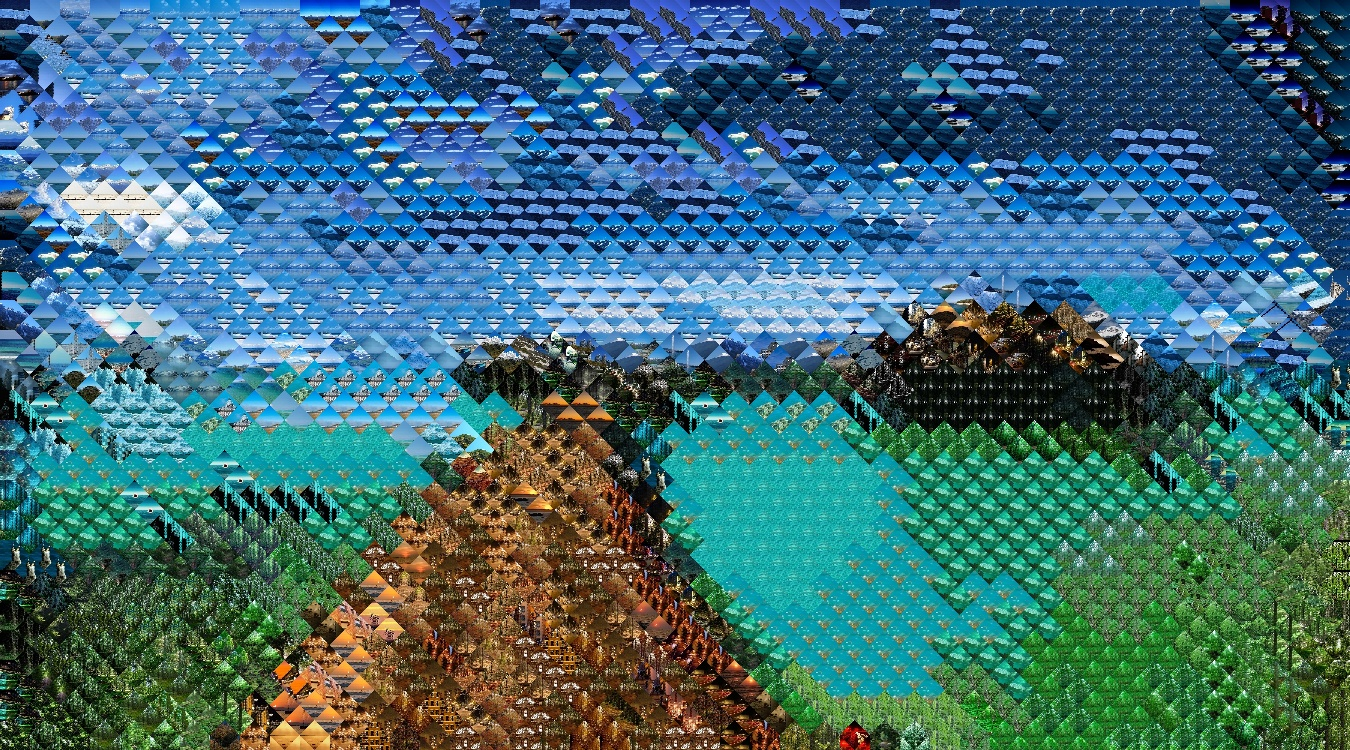
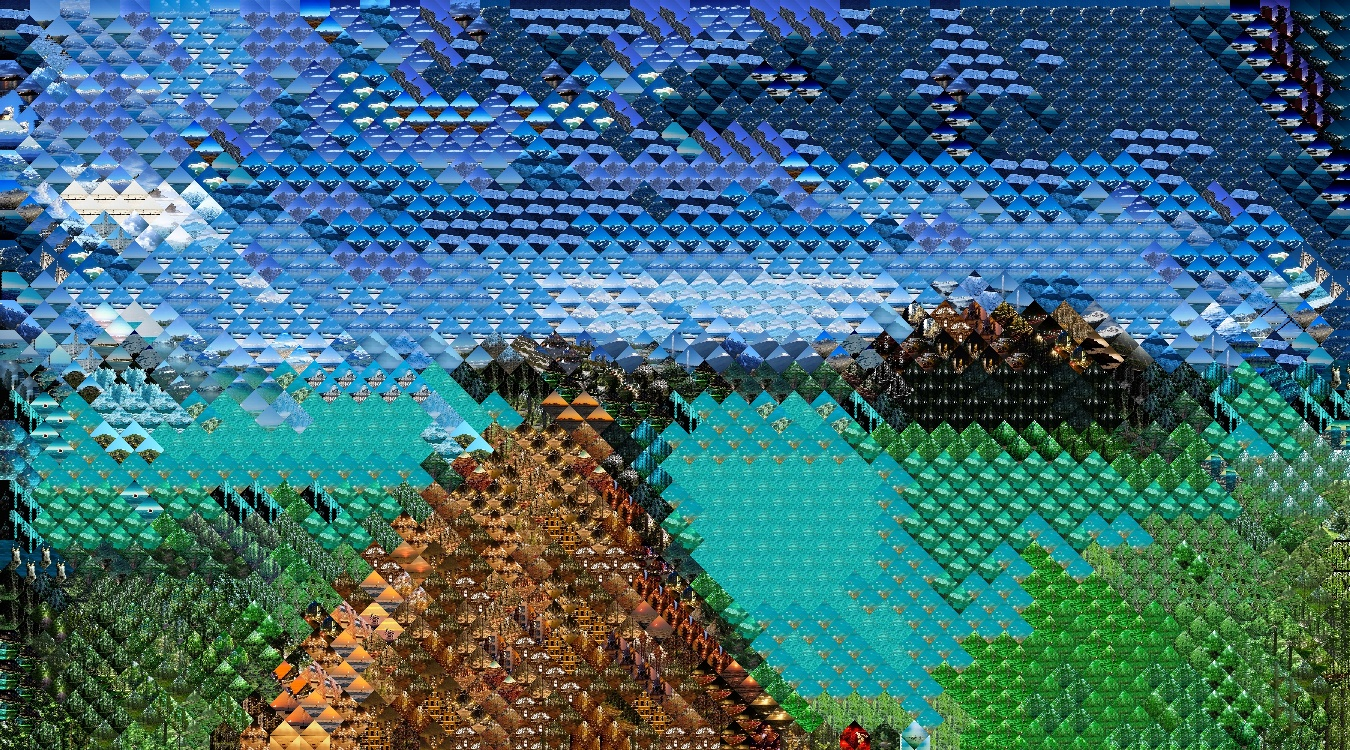
Made some changes on CommandLineInterface

diff --git a/Mosaic++/Mosaic++/CommandLineInterface.cpp b/Mosaic++/Mosaic++/CommandLineInterface.cpp
@@ -27,19 +27,128 @@ const std::unordered_map<std::string, CommandLineInterface::Parameter> CommandLi
 std::unordered_map<CommandLineInterface::PathType, std::string> CommandLineInterface::PATHS = {
 	{PathType::SOURCE,						    Data::Defaults::PARENT_PATH},
 
-	{PathType::PROCESSED,						Data::Defaults::PARENT_PATH},
+	{PathType::PROCESSED,						Data::Defaults::PATH_PICTURES_FOR_MOSAIC},
 
-	{PathType::DATABASE,						Data::Defaults::PARENT_PATH},
+	{PathType::DATABASE,						Data::Defaults::PATH_DATA_BASE_FILE},
 
 	{PathType::NUMBER_PHOTOS,					"10"}
 
 };
 
-const std::unordered_set<std::string> CommandLineInterface::COMMANDS = { "make", "set_img_pool_dir" };
+const std::unordered_map<std::string, std::unordered_set<std::string>> CommandLineInterface::COMMANDS = {
+	{
+		"make",											{
+														 "-s", "--shape",
+														 "-p","--partiton",
+														 "--method","-m",
+														 "--help","-h"
+														}		
+	},
 
+	{
+		"set_img_pool_dir",								{
+														 "-d","--directory", 
+														 "-h","--help"
+														}
+	}
+};
+
+////const std::unordered_map<CommandLineInterface::Parameter, Data::Errors, > CommandLineInterface::PARAMS_TYPE_ERROR = {
+//
+//	{Parameter::TYPE			Data::Errors::}
+//
+//};
 
 const std::unordered_set<std::string> CommandLineInterface::KNOWN_EXTENSIONS = { "jpg", "png" };
 
+CommandLineInterface::CommandLineInterface(int argc, char* args[])
+{
+	if (argc < 2)
+	{
+		std::cerr << Data::Errors::PARAMETER_COUNT;
+	}
+	else
+		//daca aem destule argumente
+	{
+		auto command = COMMANDS.find(std::string(args[1]));
+		if (command != COMMANDS.end())
+			//daca primul argument este o comanda
+		{
+			bool hasParams = true;
+			std::unordered_map<std::string, std::string> flagsParams;
+
+			for (int index = 2; index < argc; ++index) 
+				//parcurgem restul argumentelor
+			{
+
+				std::string argument(args[index]);
+
+				if (command->second.find(argument) != command->second.end())
+					//daca argumnetul este un flag ce corespunde comenzii
+				{
+					if (FLAGS.at(argument) == Parameter::HELP)
+						//daca e -h || --help
+					{
+						commandController(argument);
+						return;
+					}
+					else
+					{
+						if (hasParams)
+							//daca falg-ul curent necesita un parametru
+						{
+							if (index + 1 < argc)
+								//daca avem destule argumente in continuare
+								if (inCheck(argument, args[++index]))
+									//daca parametrul este valid
+									flagsParams.insert({ argument, args[index] });
+								else
+								{
+									std::cerr << Data::Errors::WRONG_PARAMETER;
+								}
+						}
+						else
+						{
+							std::cerr << Data::Errors::WRONG_ARGUMENT_ORDER;
+						}
+					}
+				}
+				else
+				{
+					//flag gresit
+					return;
+				}
+			}
+			if (flagsParams.size() > 0)
+				commandController(*command, commandParams, flagsParams);
+			else
+				commandController(*command, commandParams);
+		}
+		else
+		{
+			if (FLAGS.find(std::string(args[1])) != FLAGS.end())
+				//daca in loc de o comanda, gasim o cerere de 'help' sau 'version'
+			{
+				if (FLAGS.at(std::string(args[1])) == Parameter::HELP)
+				{
+					std::cout << Data::Info::HELP_LEVEL.at(Data::HelpTypes::GENERAL_HELP);
+				}
+				else if (FLAGS.at(std::string(args[1])) == Parameter::VERSION)
+				{
+					std::cout << Data::Info::VERSION;
+				}
+			}
+			else
+				//altfel comanda nu exista
+			{
+				std::cerr << Data::Errors::UNKNOWN_COMMAND;
+			}
+		}
+	}
+}
+
+
+/*
 CommandLineInterface::CommandLineInterface(int argc, char* args[])
 {
 	if (argc < 2)
@@ -90,7 +199,7 @@ CommandLineInterface::CommandLineInterface(int argc, char* args[])
 					}
 
 				}
-				else/* if (COMMANDS.find(std::string(args[i])) != COMMANDS.end())*/
+				else// if (COMMANDS.find(std::string(args[i])) != COMMANDS.end())
 				{
 					//else, if we find a command parameter
 					if (isPath(argument) && isFile(argument))//TODO: optimise for set_img_pool_dir
@@ -134,6 +243,7 @@ CommandLineInterface::CommandLineInterface(int argc, char* args[])
 	}
 
 }
+*/
 
 void CommandLineInterface::make(const std::vector<std::string>& params)
 {
@@ -435,7 +545,9 @@ inline bool CommandLineInterface::inCheck(const std::string& flag, const std::st
 		break;
 
 	case Parameter::HELP:
+
 	case Parameter::VERSION:
+
 	default:
 		std::cerr << "No idea how you got here";
 		break;

diff --git a/Mosaic++/Mosaic++/CommandLineInterface.h b/Mosaic++/Mosaic++/CommandLineInterface.h
@@ -13,20 +13,41 @@
 #include <sys/stat.h>   // For stat().
 #include <regex>
 
-//errors
+struct EnumClassHash
+{
+	template <typename T>
+	std::size_t operator()(T t) const
+	{
+		return static_cast<std::size_t>(t);
+	}
+};
 
 
 class CommandLineInterface
 {
 private:
-	static enum class Parameter { PATH, EXTENSION, TYPE, SIZE, METHOD, HELP, VERSION };
+	static enum class Parameter { 
+		PATH, 
+		EXTENSION, 
+		TYPE, 
+		SIZE, 
+		METHOD, 
+		HELP, 
+		VERSION 
+	};
 
-	static enum class PathType {SOURCE, PROCESSED, DATABASE, NUMBER_PHOTOS};
+	static enum class PathType {
+		SOURCE, 
+		PROCESSED,
+		DATABASE, 
+		NUMBER_PHOTOS
+	};
 
 	static const std::unordered_set<std::string> KNOWN_EXTENSIONS;
-	static const std::unordered_set<std::string> COMMANDS;
+	static const std::unordered_map<std::string, std::unordered_set<std::string>> COMMANDS;
 	static const std::unordered_map<std::string, Parameter> FLAGS;
 	static std::unordered_map<PathType, std::string> PATHS;
+	static const std::unordered_map<CommandLineInterface::Parameter, Data::Errors> PARAMS_TYPE_ERROR;
 
 	//static std::string DEFAULT_PATH;
 

diff --git a/Mosaic++/Mosaic++/Data.cpp b/Mosaic++/Mosaic++/Data.cpp
@@ -44,7 +44,8 @@ const std::string Data::Info::SET_POOL_HELP = "WIP";
 
 
 // ERRORS:
-const std::string Data::Errors::PARAMETER_COUNT = "Wrong number of parameters";
+const std::string Data::Errors::PARAMETER_COUNT = "Wrong number of parameters"; 
+const std::string Data::Errors::WRONG_PARAMETER = "Wrong type of parameter";
 const std::string Data::Errors::UNKNOWN_COMMAND = "Unknown command used";
 const std::string Data::Errors::WRONG_ARGUMENT_ORDER = "Wrong agrument order";
 const std::string Data::Errors::WRONG_INPUT = "The argument may be an unsupported file extension or an invalid path(check for file existence!)";

diff --git a/Mosaic++/Mosaic++/Mosaic.cpp b/Mosaic++/Mosaic++/Mosaic.cpp
@@ -262,7 +262,7 @@ cv::Mat Mosaic::findPictureWithColorMed(const std::unordered_map<cv::Scalar, std
 	int closestDistance = INT_MAX;
 	for (auto itr : dataPictures)
 	{
-		int currDistance = euclideanDistance(mediumColor, itr.first);
+		int currDistance = RiemersmaDistance(mediumColor, itr.first);
 
 		if (currDistance < closestDistance && itr.second != pictureDifferent)
 		{

diff --git a/Mosaic++/Mosaic++/Data.h b/Mosaic++/Mosaic++/Data.h
@@ -30,6 +30,7 @@ public:
 	{
 	public:
 		static const std::string PARAMETER_COUNT;
+		static const std::string WRONG_PARAMETER;
 		static const std::string UNKNOWN_COMMAND;
 		static const std::string WRONG_ARGUMENT_ORDER;
 		static const std::string WRONG_INPUT;
